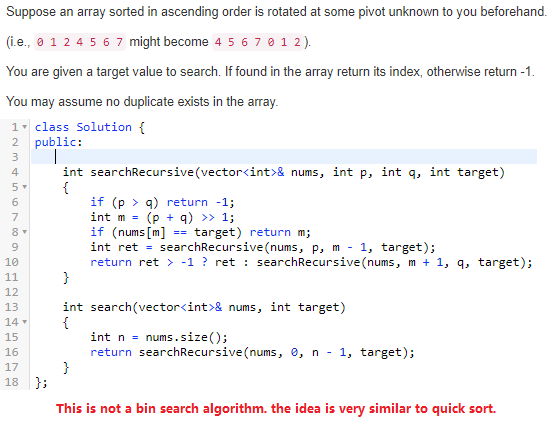
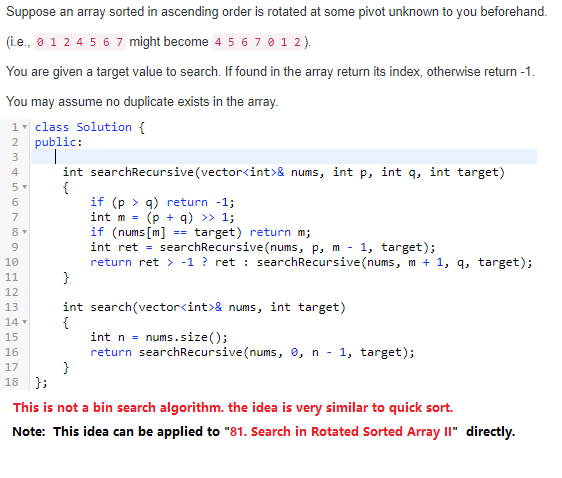
add algorithm.

diff --git a/leetcode/binsearch/81-Search-in-Rotated-Sorted-Array-II.md b/leetcode/binsearch/81-Search-in-Rotated-Sorted-Array-II.md
@@ -1,0 +1,3 @@
+## search in a rotated sorted array II
+
+![search in rotated sorted array II](./image/81-Search-in-Rotated-Sorted-Array-II.png)
